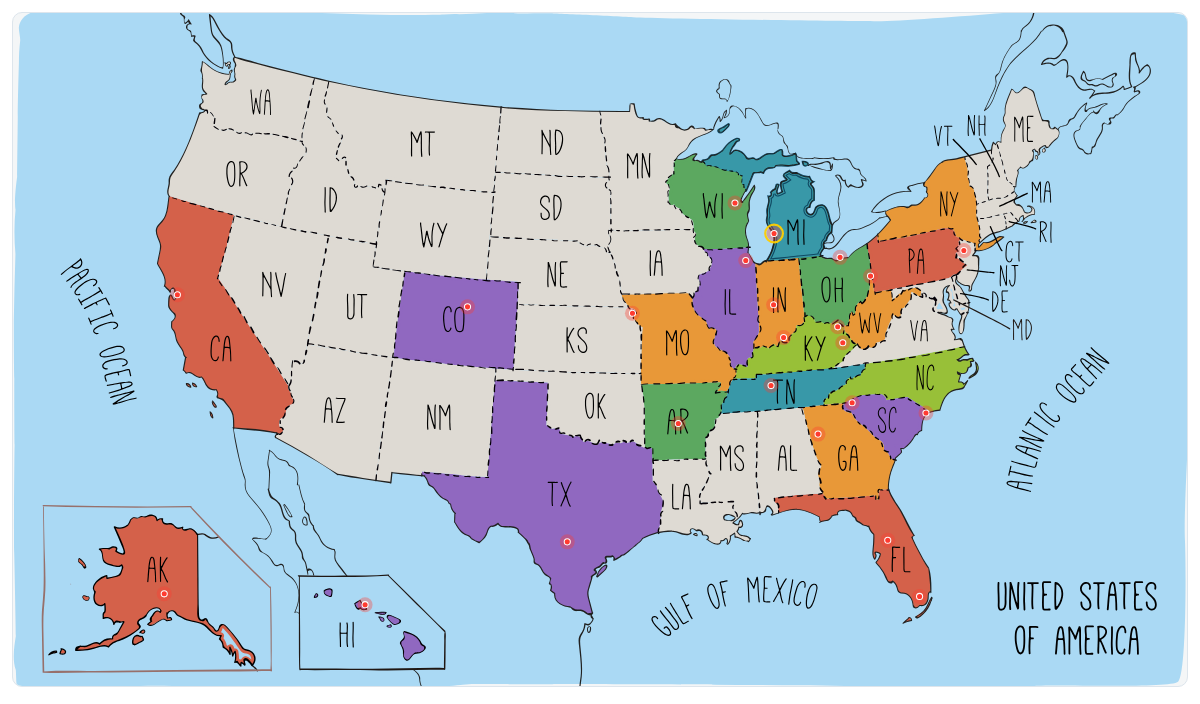
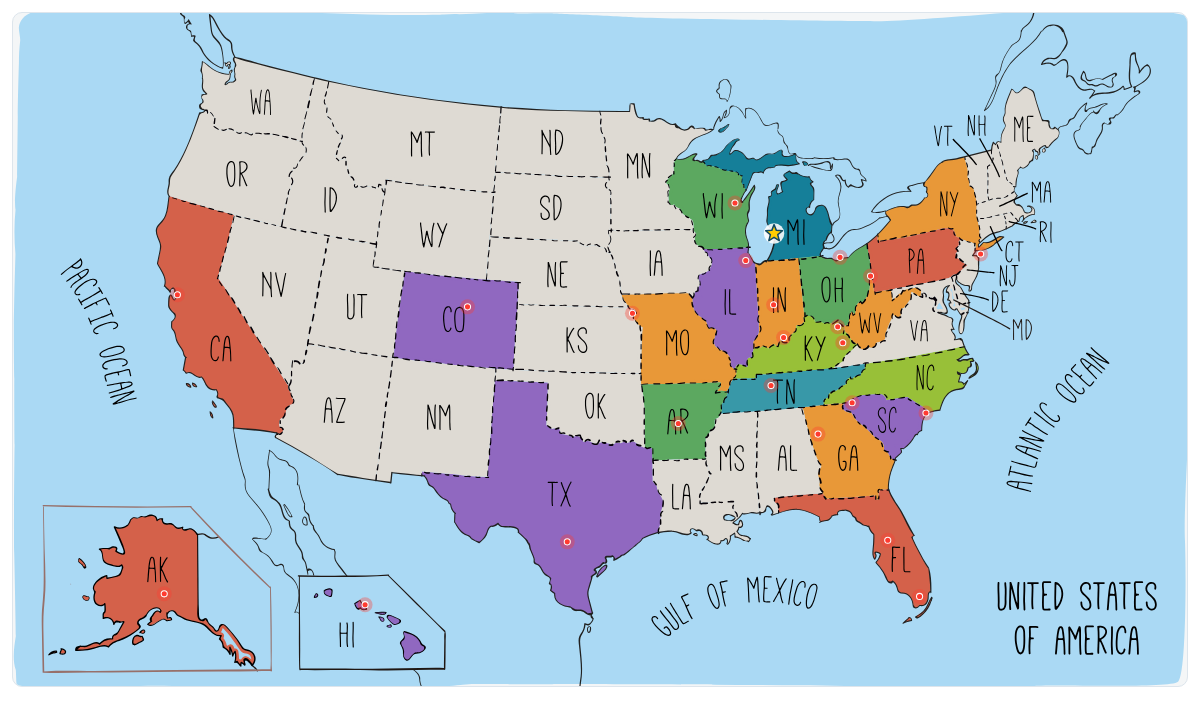
Refine Michigan WeChat map marker

Changed region(s): [[0.5858, 0.1875, 0.7092, 0.375], [0.8017, 0.3438, 0.8325, 0.375]]

diff --git a/tools/build_wechat_michigan_assets.py b/tools/build_wechat_michigan_assets.py
@@ -99,7 +99,7 @@ COLORS = {
     "IL": "#9068c0",
     "IN": "#e89838",
     "KY": "#98c038",
-    "MI": "#3898a8",
+    "MI": "#157f99",
     "MO": "#e89838",
     "NC": "#98c038",
     "NY": "#e89838",
@@ -195,6 +195,9 @@ def build_html() -> str:
       const STATE_PATH_IDS = {js_literal(state_path_ids)};
       const HOLLOW_CLEANUP = {js_literal(hollow_cleanup)};
       const CITY_DOTS = {js_literal(CITY_DOTS)};
+      const SPECIAL_POSITIONS = {{
+        "NY:New York City": {{ x: 1474.0, y: 418.0 }}
+      }};
       const MUTED = "#dedad3";
 
       function projectAlbers(lat, lon) {{
@@ -253,6 +256,16 @@ def build_html() -> str:
         }}).join(" "));
       }}
 
+      function starPoints(cx, cy, outer, inner) {{
+        const points = [];
+        for (let i = 0; i < 10; i++) {{
+          const angle = -Math.PI / 2 + i * Math.PI / 5;
+          const radius = i % 2 === 0 ? outer : inner;
+          points.push(`${{cx + Math.cos(angle) * radius}},${{cy + Math.sin(angle) * radius}}`);
+        }}
+        return points.join(" ");
+      }}
+
       function removeFloridaHoles() {{
         const el = document.getElementById("map_South_Carolina_1_");
         if (!el) return;
@@ -307,15 +320,6 @@ def build_html() -> str:
           }});
         }});
 
-        (STATE_PATHS.MI || []).forEach(id => {{
-          const el = document.getElementById("map_" + id);
-          if (el) {{
-            el.style.stroke = "#0f4962";
-            el.style.strokeWidth = "3.2";
-            el.style.paintOrder = "stroke fill markers";
-          }}
-        }});
-
         const alaskaFrame = document.getElementById("map_exterior_2_");
         const hawaiiFrame = document.getElementById("map_hawaii_1_");
         if (alaskaFrame && hawaiiFrame) alaskaFrame.style.fill = getComputedStyle(hawaiiFrame).fill;
@@ -325,7 +329,10 @@ def build_html() -> str:
         master.appendChild(dotGroup);
         CITY_DOTS.forEach(([abbr, city, lat, lon]) => {{
           let x, y;
-          if (abbr === "HI") {{
+          const special = SPECIAL_POSITIONS[abbr + ":" + city];
+          if (special) {{
+            x = special.x; y = special.y;
+          }} else if (abbr === "HI") {{
             x = 570.0; y = 933.0;
           }} else if (abbr === "AK") {{
             x = 275.0; y = 917.0;
@@ -340,15 +347,21 @@ def build_html() -> str:
           glow.setAttribute("fill", "rgba(255, 59, 48, 0.35)");
           dotGroup.appendChild(glow);
           if (abbr === "MI") {{
-            const ring = document.createElementNS("http://www.w3.org/2000/svg", "circle");
-            ring.setAttribute("cx", x);
-            ring.setAttribute("cy", y);
-            ring.setAttribute("r", 13);
-            ring.setAttribute("fill", "none");
-            ring.setAttribute("stroke", "#ffcc00");
-            ring.setAttribute("stroke-width", "3.2");
-            ring.setAttribute("opacity", "0.95");
-            dotGroup.appendChild(ring);
+            const halo = document.createElementNS("http://www.w3.org/2000/svg", "circle");
+            halo.setAttribute("cx", x);
+            halo.setAttribute("cy", y);
+            halo.setAttribute("r", 15);
+            halo.setAttribute("fill", "#ffffff");
+            halo.setAttribute("opacity", "0.88");
+            dotGroup.appendChild(halo);
+            const star = document.createElementNS("http://www.w3.org/2000/svg", "polygon");
+            star.setAttribute("points", starPoints(x, y, 13, 5.7));
+            star.setAttribute("fill", "#ffcc00");
+            star.setAttribute("stroke", "#0f4962");
+            star.setAttribute("stroke-width", "2.2");
+            star.setAttribute("stroke-linejoin", "round");
+            dotGroup.appendChild(star);
+            return;
           }}
           const dot = document.createElementNS("http://www.w3.org/2000/svg", "circle");
           dot.setAttribute("cx", x);
